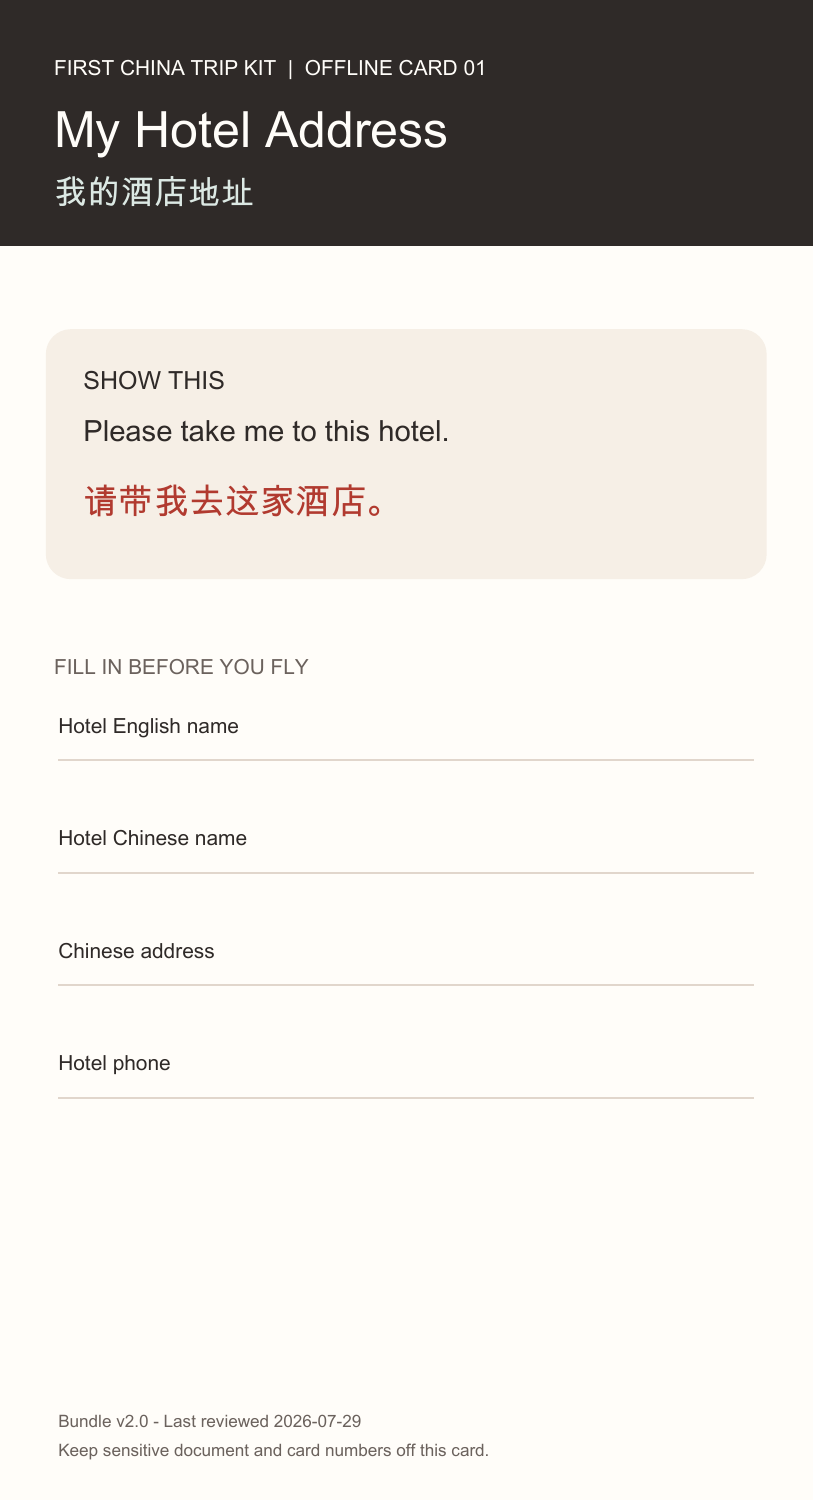
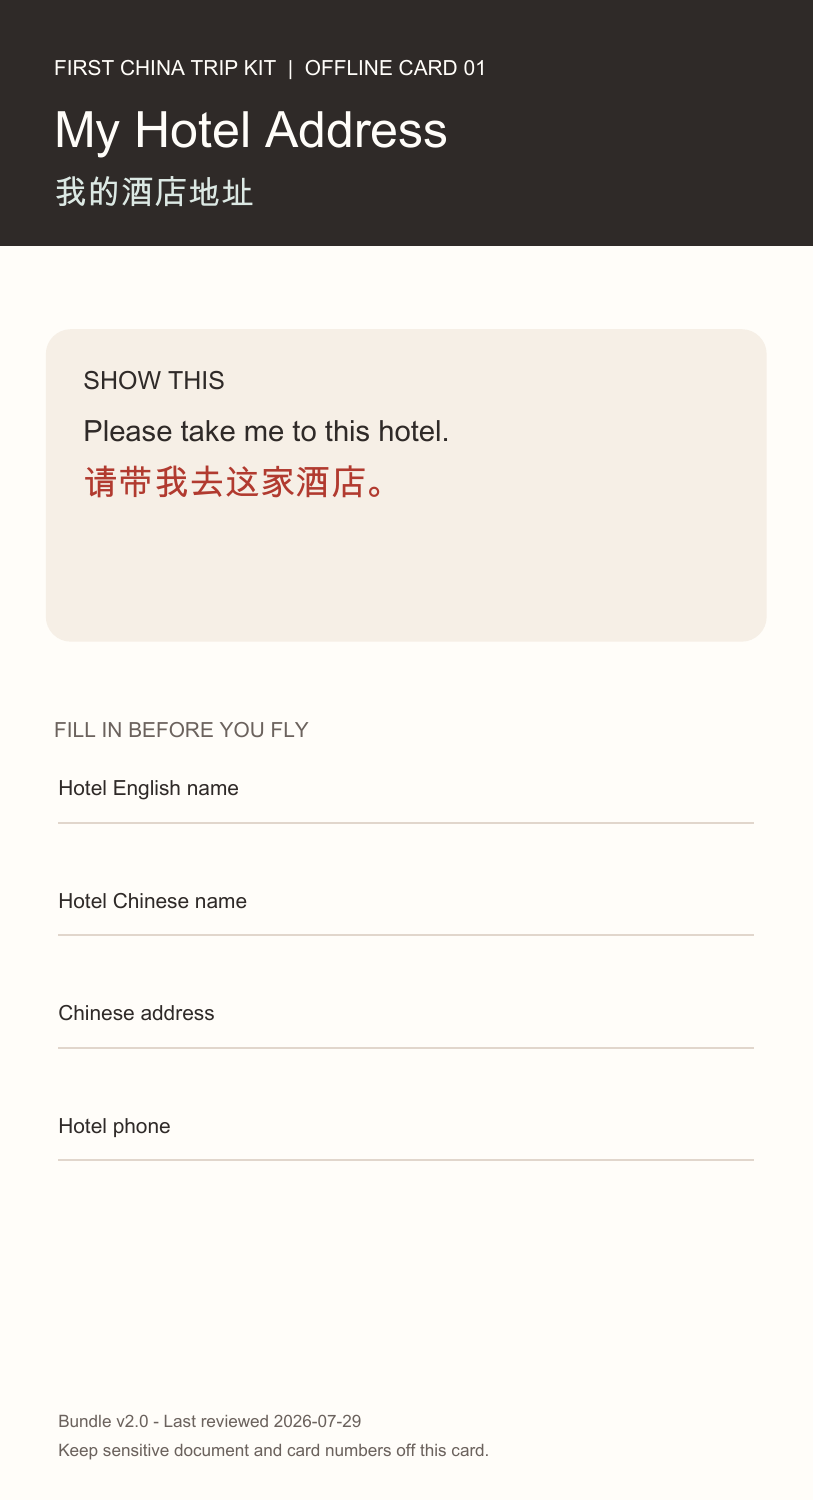
fix: prevent mobile quick card text overflow

Changed region(s): [[0.0615, 0.5213, 0.3075, 0.7667], [0.0615, 0.4293, 0.3383, 0.4907], [0.0923, 0.3067, 0.4613, 0.368]]

diff --git a/scripts/generate-arrival-setup-bundle-package.py b/scripts/generate-arrival-setup-bundle-package.py
@@ -323,6 +323,24 @@ def split_lines(text: str, count: int) -> list[str]:
     return lines[:3]
 
 
+def wrap_lines_by_width(text: str, font_name: str, font_size: float, max_width: float) -> list[str]:
+    """Wrap Latin words and unspaced CJK text using the actual PDF font width."""
+    tokens = text.split() if " " in text else list(text)
+    separator = " " if " " in text else ""
+    lines: list[str] = []
+    line = ""
+    for token in tokens:
+        attempt = f"{line}{separator if line else ''}{token}"
+        if line and pdfmetrics.stringWidth(attempt, font_name, font_size) > max_width:
+            lines.append(line)
+            line = token
+        else:
+            line = attempt
+    if line:
+        lines.append(line)
+    return lines
+
+
 TREE_DATA = [
     ("Alipay or WeChat Pay is not working", [
         ("START: Is phone data or trusted Wi-Fi working?", "If yes, continue. If no, use the No Mobile Internet tree first."),
@@ -405,19 +423,28 @@ def make_mobile_cards() -> None:
         c.setFont(BOLD_FONT, 16)
         c.drawString(26, height - 98, chinese_title)
         y = height - 158
+        card_height = 150
+        text_width = width - 80
         c.setFillColor(SAND)
-        c.roundRect(22, y - 120, width - 44, 120, 12, fill=1, stroke=0)
+        c.roundRect(22, y - card_height, width - 44, card_height, 12, fill=1, stroke=0)
         c.setFillColor(INK)
         c.setFont(BOLD_FONT, 12)
         c.drawString(40, y - 29, "SHOW THIS")
         c.setFont(BASE_FONT, 14)
-        for i, line in enumerate(split_lines(english, 41)):
+        english_lines = wrap_lines_by_width(english, BASE_FONT, 14, text_width)
+        if len(english_lines) > 3:
+            raise ValueError(f"Mobile card English copy needs more than three lines: {title}")
+        for i, line in enumerate(english_lines):
             c.drawString(40, y - 54 - i * 18, line)
         c.setFillColor(EMBER)
         c.setFont(BOLD_FONT, 17)
-        for i, line in enumerate(split_lines(chinese, 23)):
-            c.drawString(40, y - 89 - i * 21, line)
-        y -= 166
+        chinese_lines = wrap_lines_by_width(chinese, BOLD_FONT, 17, text_width)
+        if len(chinese_lines) > 3:
+            raise ValueError(f"Mobile card Chinese copy needs more than three lines: {title}")
+        chinese_y = y - 54 - (len(english_lines) - 1) * 18 - 26
+        for i, line in enumerate(chinese_lines):
+            c.drawString(40, chinese_y - i * 21, line)
+        y -= card_height + 46
         c.setFillColor(MUTED)
         c.setFont(BOLD_FONT, 10)
         c.drawString(26, y, "FILL IN BEFORE YOU FLY")
